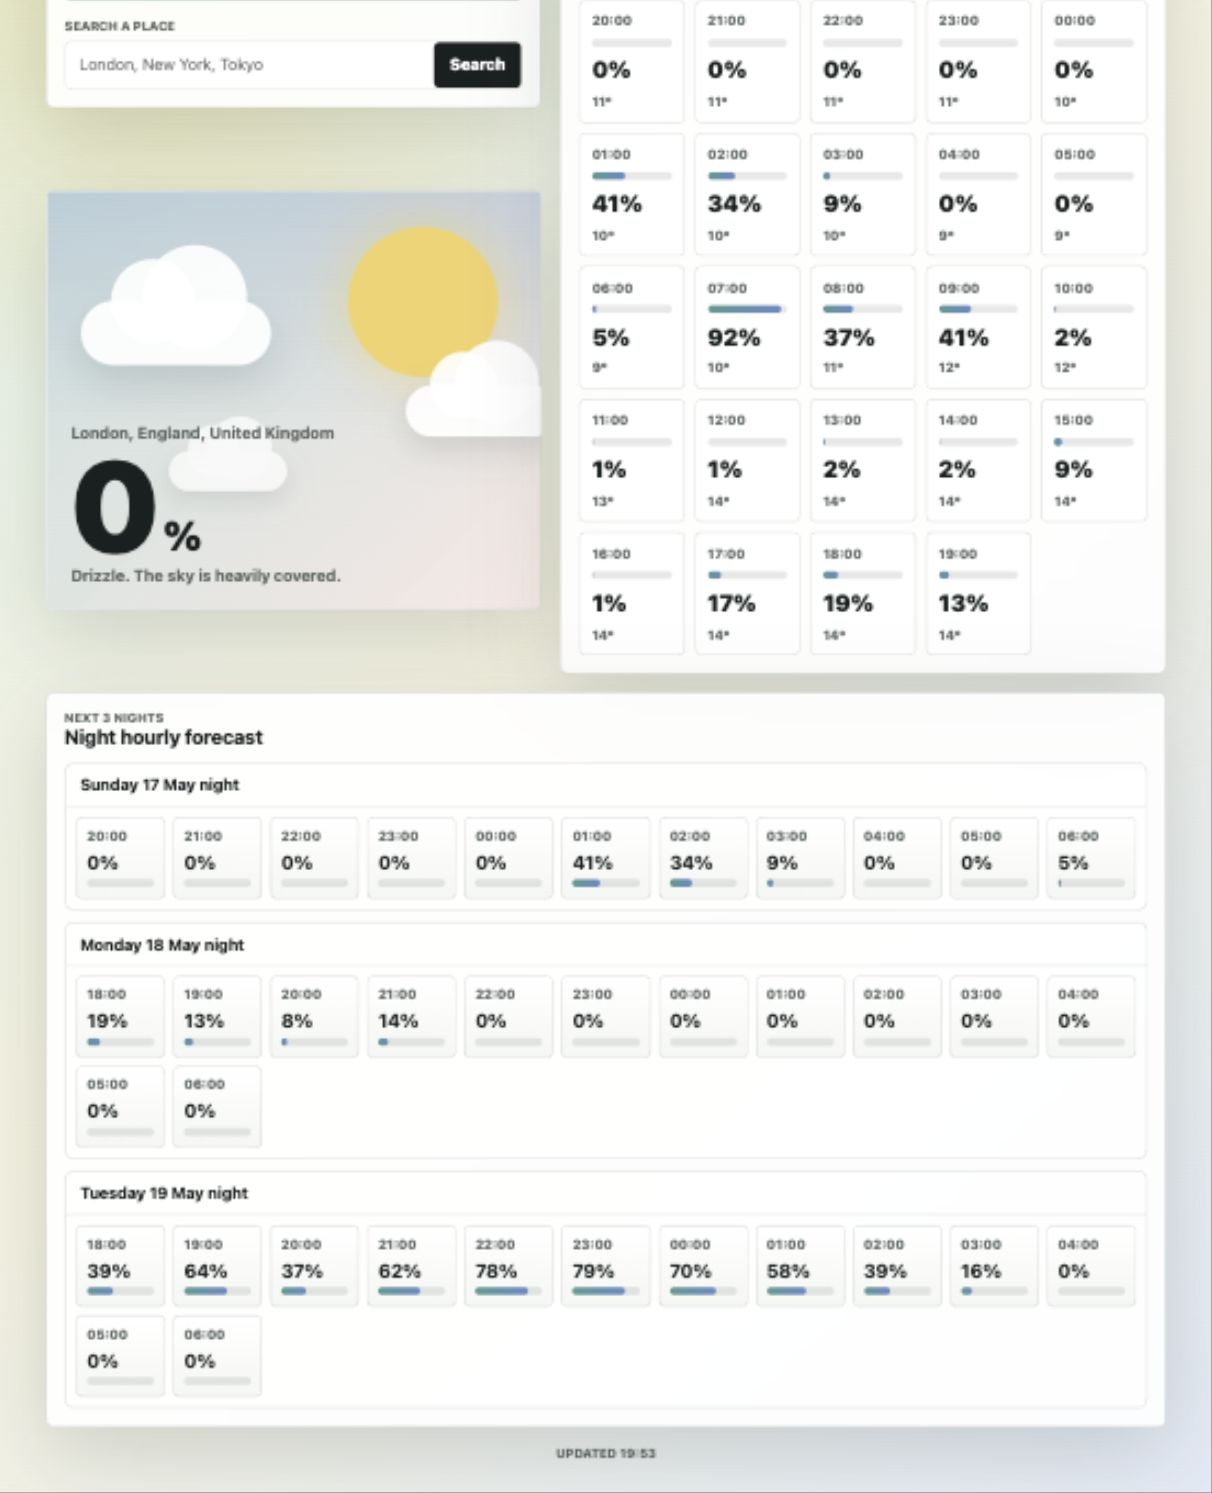
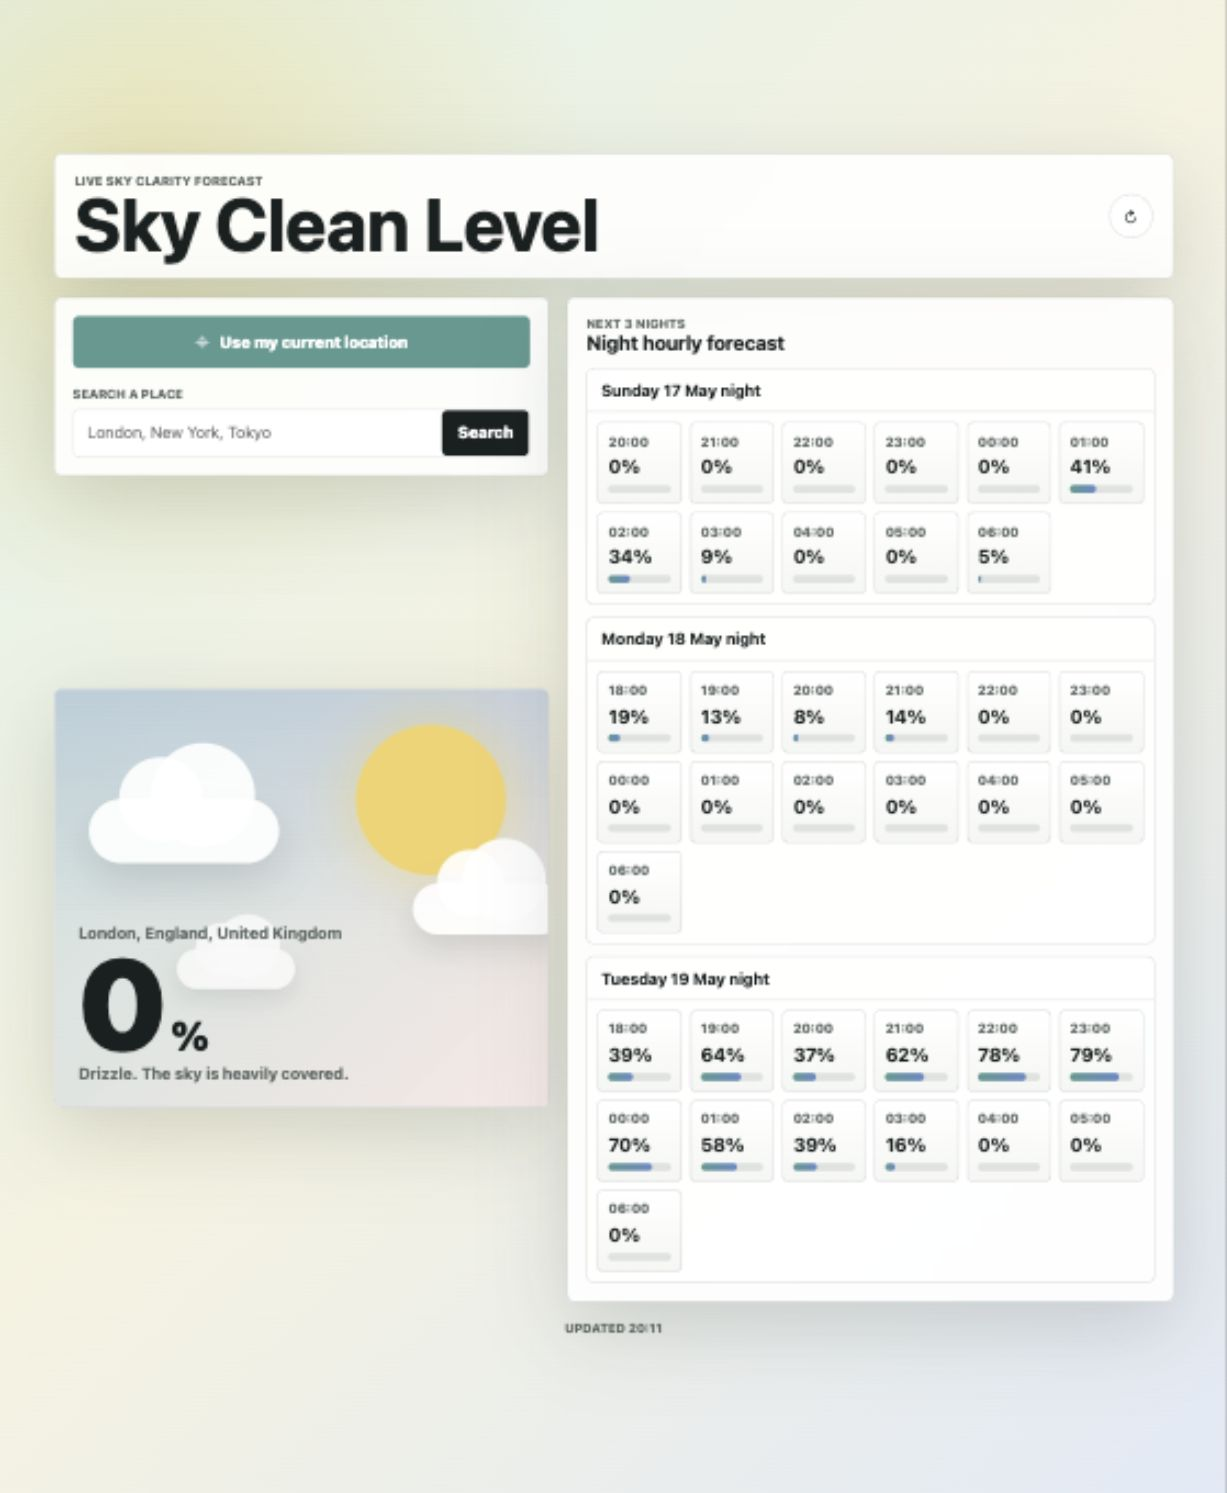
Remove next 24 hour forecast

diff --git a/styles.css b/styles.css
@@ -50,7 +50,6 @@ input {
 .topbar,
 .location-card,
 .current-card,
-.hourly-section,
 .nights-section {
   background: var(--panel);
   border: 1px solid var(--line);
@@ -269,18 +268,13 @@ input {
   padding-bottom: 0.12em;
 }
 
-.hourly-section,
 .nights-section {
   padding: 18px;
 }
 
-.hourly-section {
+.nights-section {
   grid-column: 2;
   grid-row: 2 / 4;
-}
-
-.nights-section {
-  grid-column: 1 / -1;
 }
 
 .section-heading {
@@ -290,28 +284,12 @@ input {
   justify-content: space-between;
 }
 
-.hourly-strip {
-  display: grid;
-  grid-template-columns: repeat(auto-fit, minmax(92px, 1fr));
-  gap: 10px;
-}
-
-.hour-card,
 .night-hour {
   border: 1px solid var(--line);
   border-radius: 6px;
   background: #ffffff;
 }
 
-.hour-card {
-  min-height: 118px;
-  padding: 12px;
-  display: grid;
-  align-content: space-between;
-  gap: 10px;
-}
-
-.hour-time,
 .night-time {
   color: var(--muted);
   font-size: 0.82rem;
@@ -331,11 +309,6 @@ input {
   height: 100%;
   border-radius: inherit;
   background: linear-gradient(90deg, var(--green), var(--blue));
-}
-
-.hour-percent {
-  font-size: 1.45rem;
-  font-weight: 900;
 }
 
 .night-list {
@@ -392,7 +365,6 @@ input {
     grid-template-columns: 1fr;
   }
 
-  .hourly-section,
   .nights-section {
     grid-column: auto;
     grid-row: auto;
@@ -422,7 +394,6 @@ input {
     min-height: 44px;
   }
 
-  .hourly-strip,
   .night-grid {
     grid-template-columns: repeat(2, minmax(0, 1fr));
   }

diff --git a/app.js b/app.js
@@ -9,7 +9,6 @@ const elements = {
   placeLabel: document.querySelector("#place-label"),
   cloudCover: document.querySelector("#cloud-cover"),
   currentSummary: document.querySelector("#current-summary"),
-  hourlyStrip: document.querySelector("#hourly-strip"),
   nightList: document.querySelector("#night-list"),
   status: document.querySelector("#status-message"),
   panel: document.querySelector(".forecast-panel"),
@@ -100,10 +99,6 @@ function getCurrentHourIndex(rows, currentTime) {
   return Math.max(nextIndex, 0);
 }
 
-function getNext24Hours(rows, startIndex) {
-  return rows.slice(startIndex, startIndex + 24);
-}
-
 function getPreviousDate(dateString) {
   const [year, month, day] = dateString.split("-").map(Number);
   const date = new Date(year, month - 1, day);
@@ -132,24 +127,6 @@ function getNightGroups(rows, startIndex) {
     title: `${formatDay(date)} night`,
     hours,
   }));
-}
-
-function renderHourly(rows) {
-  elements.hourlyStrip.replaceChildren(
-    ...rows.map((row) => {
-      const skyCleanLevel = getSkyCleanLevel(row.cloudCover);
-      const card = document.createElement("article");
-      card.className = "hour-card";
-      card.setAttribute("role", "listitem");
-      card.innerHTML = `
-        <span class="hour-time">${formatHour(row.time)}</span>
-        <div class="mini-cloud" aria-hidden="true"><span style="width: ${skyCleanLevel}%"></span></div>
-        <span class="hour-percent">${skyCleanLevel}%</span>
-        <span class="hour-time">${Math.round(row.temperature)}°</span>
-      `;
-      return card;
-    }),
-  );
 }
 
 function renderNights(groups) {
@@ -209,7 +186,6 @@ async function renderForecast(location) {
     elements.placeLabel.textContent = formatPlace(location);
     elements.cloudCover.textContent = currentSkyCleanLevel;
     elements.currentSummary.textContent = summarizeSkyCleanLevel(currentSkyCleanLevel, forecast.current.weather_code);
-    renderHourly(getNext24Hours(rows, currentHourIndex));
     renderNights(getNightGroups(rows, currentHourIndex));
     setStatus(`Updated ${new Intl.DateTimeFormat([], { hour: "numeric", minute: "2-digit" }).format(new Date())}`);
   } catch (error) {

diff --git a/index.html b/index.html
@@ -48,16 +48,6 @@
           </div>
         </section>
 
-        <section class="hourly-section" aria-labelledby="hourly-title">
-          <div class="section-heading">
-            <div>
-              <p class="eyebrow">Next 24 hours</p>
-              <h2 id="hourly-title">Hourly sky clean level</h2>
-            </div>
-          </div>
-          <div class="hourly-strip" id="hourly-strip" role="list"></div>
-        </section>
-
         <section class="nights-section" aria-labelledby="nights-title">
           <div class="section-heading">
             <div>